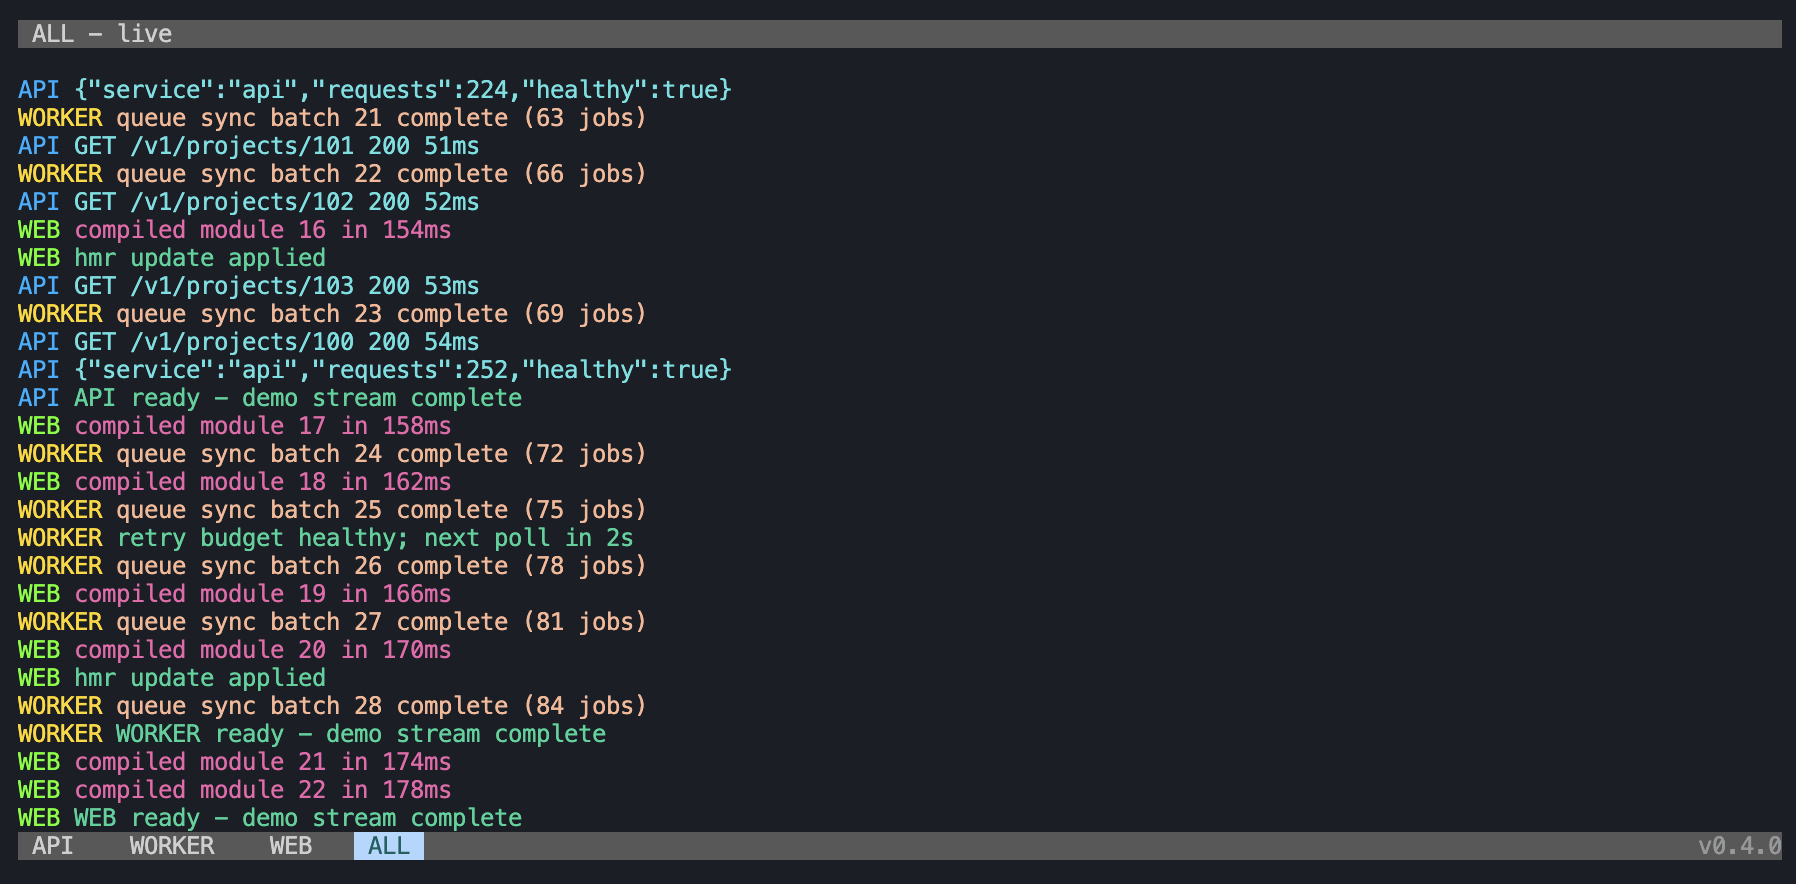
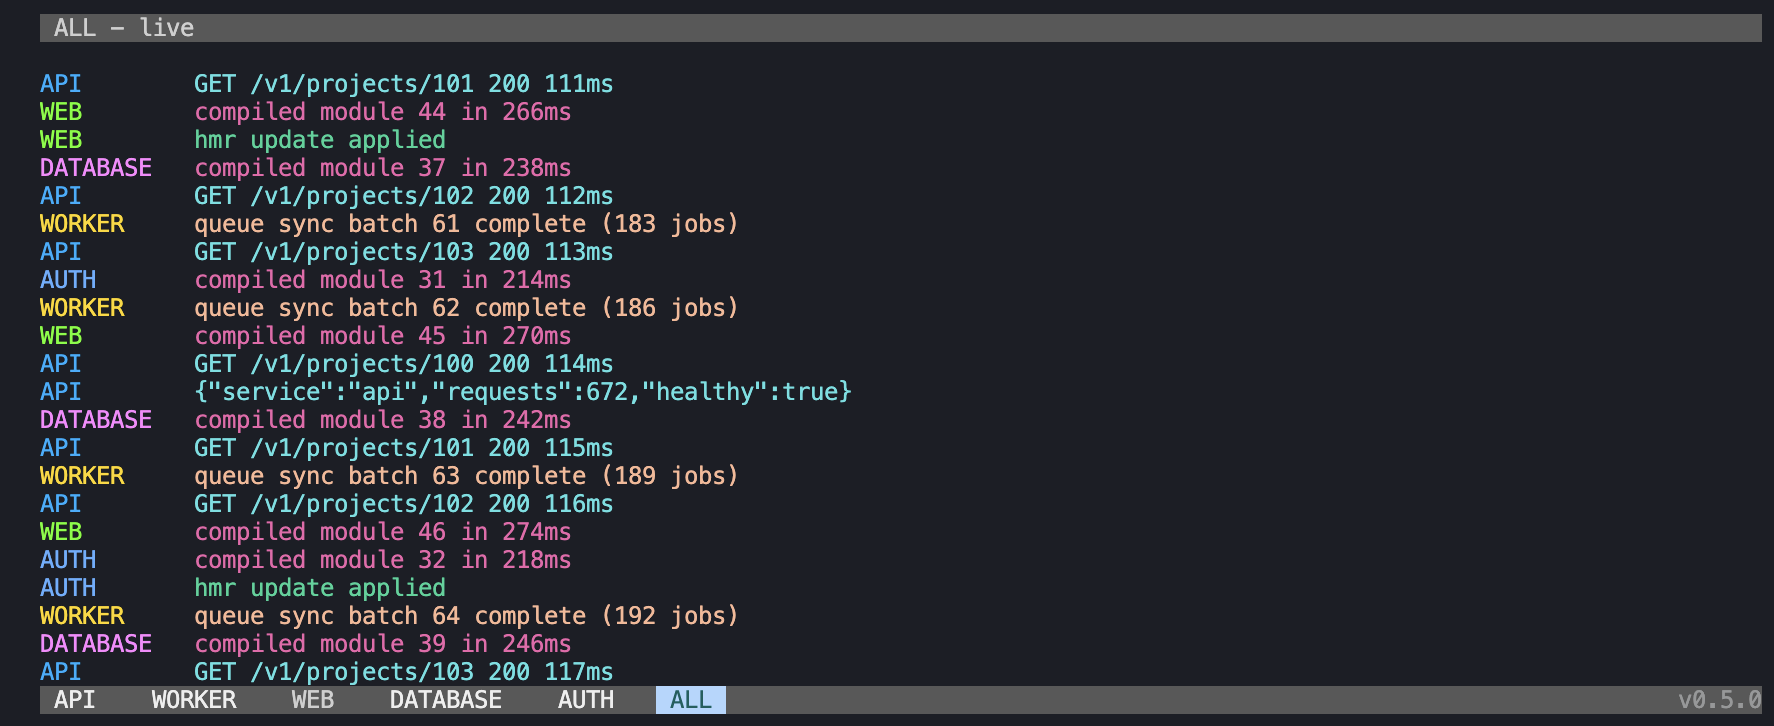
feat: readme updates + example extension

Changed region(s): [[0.0, 0.0909, 1.0, 1.0], [0.0, 0.0, 1.0, 0.0606]]

diff --git a/examples/basic.js b/examples/basic.js
@@ -8,11 +8,11 @@ const command = (name, delay, total) =>
 
 runPaginated(
     [
-        { name: "API", command: command("API", 220, 36) },
-        { name: "WORKER", command: command("WORKER", 340, 28) },
-        { name: "WEB", command: command("WEB", 470, 22) },
-        { name: "DATABASE", command: command("DATABASE", 560, 18) },
-        { name: "AUTH", command: command("AUTH", 680, 15) },
+        { name: "API", command: command("API", 220, 360) },
+        { name: "WORKER", command: command("WORKER", 340, 280) },
+        { name: "WEB", command: command("WEB", 470, 220) },
+        { name: "DATABASE", command: command("DATABASE", 560, 180) },
+        { name: "AUTH", command: command("AUTH", 680, 150) },
     ],
     {
         formatJsonLogs: false,
